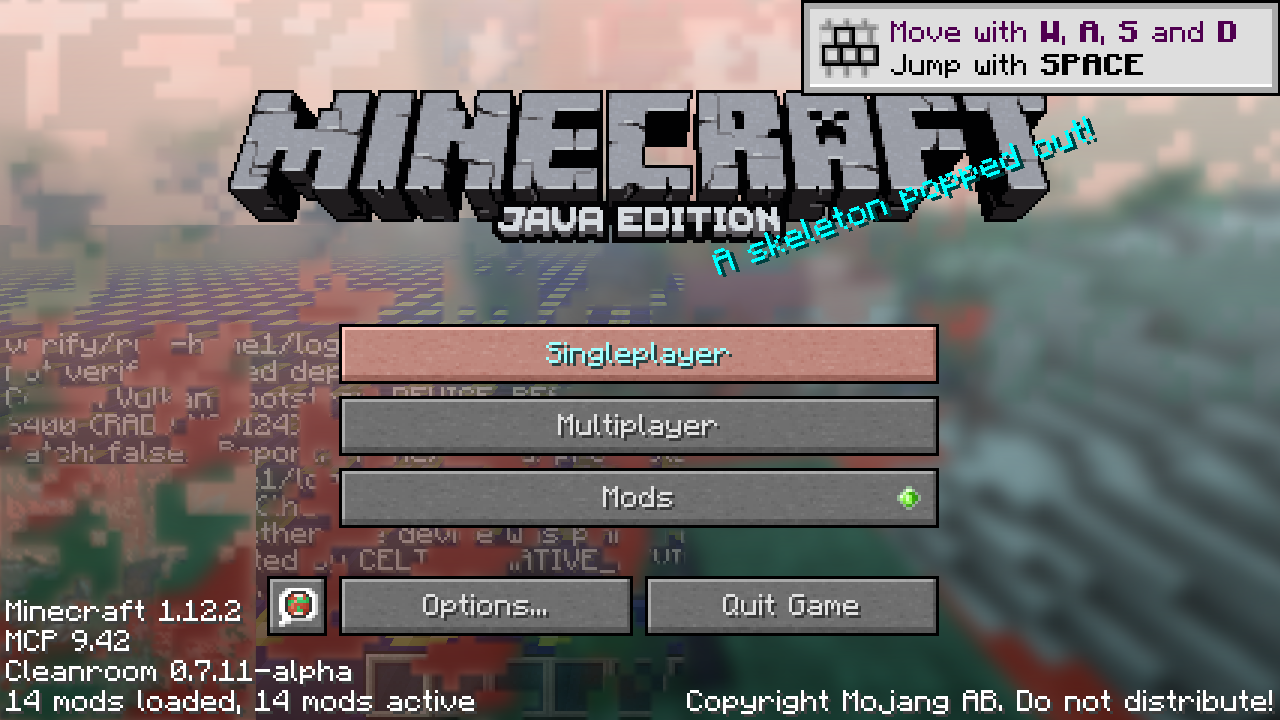
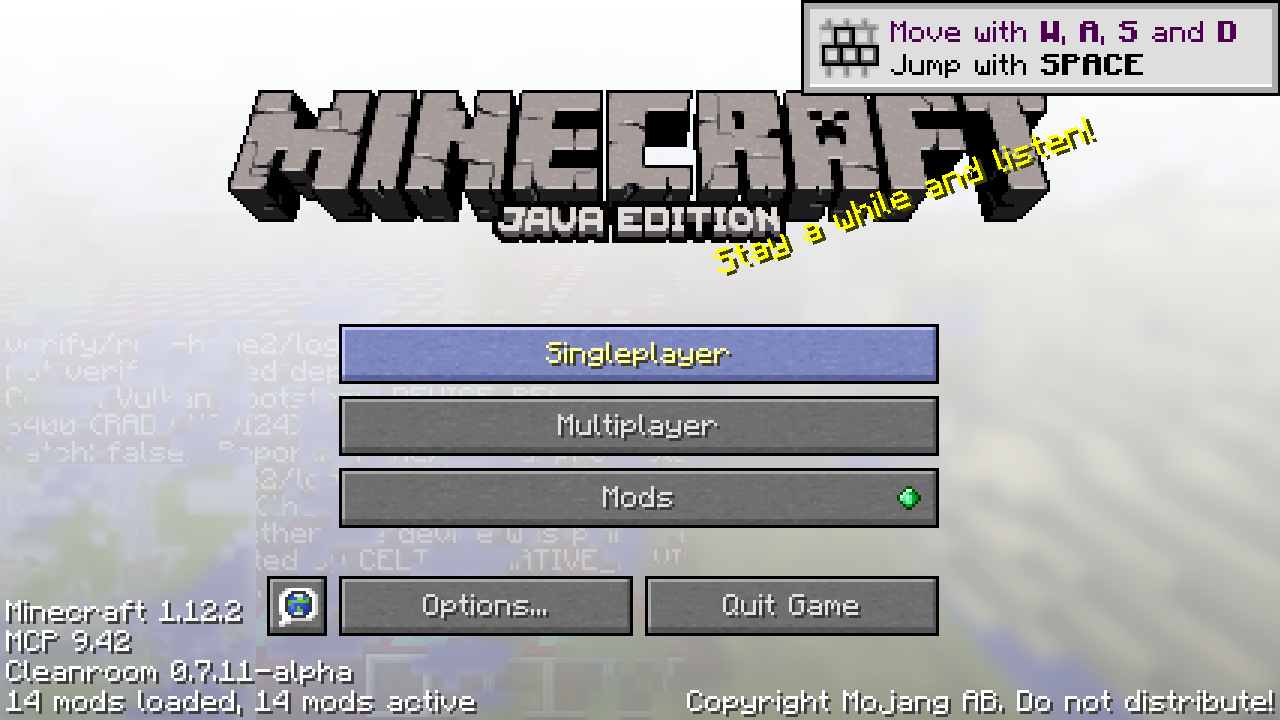
verify: re-take the main menu, which was recorded with its colours exchanged
The same leg as before (plain mode, -Dceltium.validation.screen=mainmenu, tick 120) on the
build with the channel fix. The menu now shows the stone-coloured logo, the yellow splash
line and the blue-grey panorama instead of the brown logo and orange sky the swapped dump
produced. The evidence file is replaced; the old hash stays in the history of this branch.

The leg's harness verdict is still FAILED, and for the same reason as before: the picture
gates are calibrated for the world scenes, and a main menu is not one of them. What this
leg is evidence for is the picture, not the gate.

Still to re-take with the fix: the nether and the earlier world screens.

diff --git a/docs/plan.md b/docs/plan.md
@@ -26,7 +26,7 @@
 | **state所有のnative化** | **未完（次の境界）** | — | — | GlStateManagerのproducer/queryとraw GL adapterのconsumerを同一native ownerへ。現状backendのstate snapshot/queued groupを経由しており、native側から互換状態を参照する残りがある。state push/pop・query・順序の回帰が必要 |
 | **terrain upload とframe実行** | **未完** | — | — | dirty bytes/copy/submit/可視判定の実費分離（warm＋streaming）、worker→render owner引渡し、pass/barrierの資源依存からの編成、旧GL handoff分岐の除去 |
 | **受理経路の再設計（2026-10-22 設計・前提訂正）** | **転写は遅延不可** | 未実装 | — | `architecture` §6。**`vertexAddress` はゲームの`BufferBuilder`内部バッファで次のdrawで再利用**されるため**頂点転写は受理時必須**（遅延すると壊れる）＝遅延できるのは境界判定とgroup生成だけで、判定は既に安く**5%には届かない見込み**。1.7µs/offerは数十個の5-50nsに散る（**長い尾**）ので、次は**まとめたsweepを5%基準**で測る |
-| **互換・目視（4画面 / E2E / RLCraft / qmagnet / BSL / 配布）** | **4画面取得済み・homeに欠陥** | 実測 | 一部未完 | 0.7環境（AMD、jar `675997d5…`）で loading `9d57f3085aba`（MOJANGロゴ・鏡像なし）、game `0baeeb33f468`（空/地形/HUD）、settings `30dadcc8b84d`（Video Settings 全パネル、gate PASSED・validation 0）、home `26f86a60db67`（ロゴ/5ボタン/スプラッシュ/パノラマ、**ただし `VUID-vkCmdDraw-None-09600` が2件**＝descriptorが `TRANSFER_DST` を宣言、`CELTIUM_COPY_CALLER dest=112 256x256` と同フレーム。**未修正**）。影は AMD/Intel 両方 PASSED。**RLCraft 2.9.3 は0.7非対応**: `com.cleanroommc.hackery` パッケージが0.6に5エントリ/0.7に0で**削除**（`ReflectionHackery` 使用modが起動不能）。E2Eはfull pack未導入（ローカルprofileは40MB・1modの縮小版）。未完: homeのVUID、QMAGNET対照、E2E/RLCraft(0.6またはpack更新)、BSL、配布物 |
+| **互換・目視（4画面 / E2E / RLCraft / qmagnet / BSL / 配布）** | **4画面取得済み・homeに欠陥** | 実測 | 一部未完 | 0.7環境（AMD、jar `675997d5…`）で loading `9d57f3085aba`（MOJANGロゴ・鏡像なし）、game `0baeeb33f468`（空/地形/HUD）、settings `30dadcc8b84d`（Video Settings 全パネル、gate PASSED・validation 0）、home `8ae85f058e74`（R/B修正後に撮り直し）（ロゴ/5ボタン/スプラッシュ/パノラマ、**ただし `VUID-vkCmdDraw-None-09600` が2件**＝descriptorが `TRANSFER_DST` を宣言、`CELTIUM_COPY_CALLER dest=112 256x256` と同フレーム。**未修正**）。影は AMD/Intel 両方 PASSED。**RLCraft 2.9.3 は0.7非対応**: `com.cleanroommc.hackery` パッケージが0.6に5エントリ/0.7に0で**削除**（`ReflectionHackery` 使用modが起動不能）。E2Eはfull pack未導入（ローカルprofileは40MB・1modの縮小版）。未完: homeのVUID、QMAGNET対照、E2E/RLCraft(0.6またはpack更新)、BSL、配布物 |
 | **影・BSL・配布** | **未完** | — | — | native shadow mapの両GPU実画面、BSLの描画反映、配布物と実装の一致 |
 
 ## 撤回した前提（再入条件つき）
